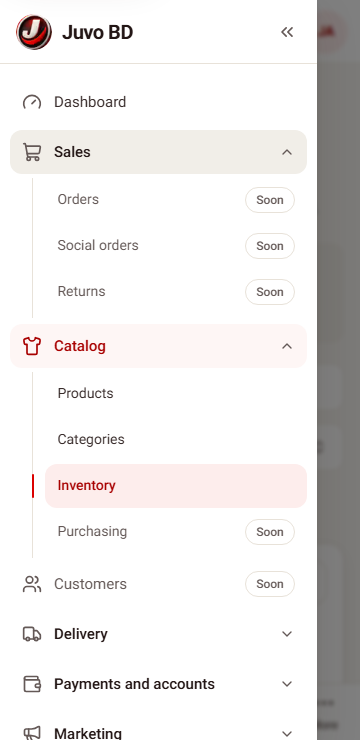
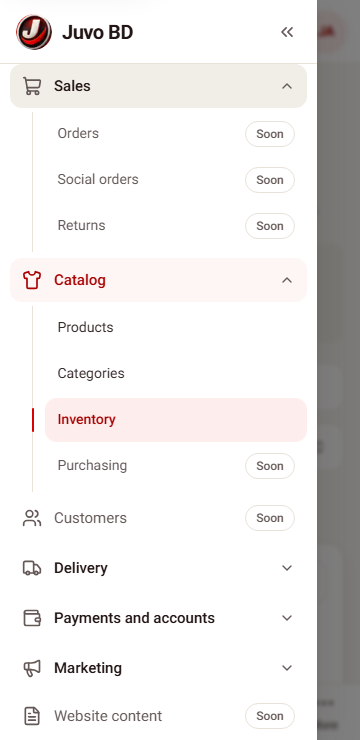
test(front): update menu specs and screenshots for the new tree

diff --git a/juvo-front/e2e/permissions.spec.ts b/juvo-front/e2e/permissions.spec.ts
@@ -8,8 +8,8 @@ const state = () => loadState();
 const sidebar = (page: Page) => page.getByRole("complementary", { name: "Navigation" });
 
 async function menuText(page: Page) {
-  // innerText applies the CSS uppercase of group headings, so compare in lower case.
-  return (await sidebar(page).innerText()).replace(/\s+/g, " ").toLowerCase();
+  // textContent, not innerText: the children of a folded parent are invisible but still part of the menu the person is given.
+  return ((await sidebar(page).textContent()) ?? "").replace(/\s+/g, " ").toLowerCase();
 }
 
 test.describe("the menu is built from permissions", () => {
